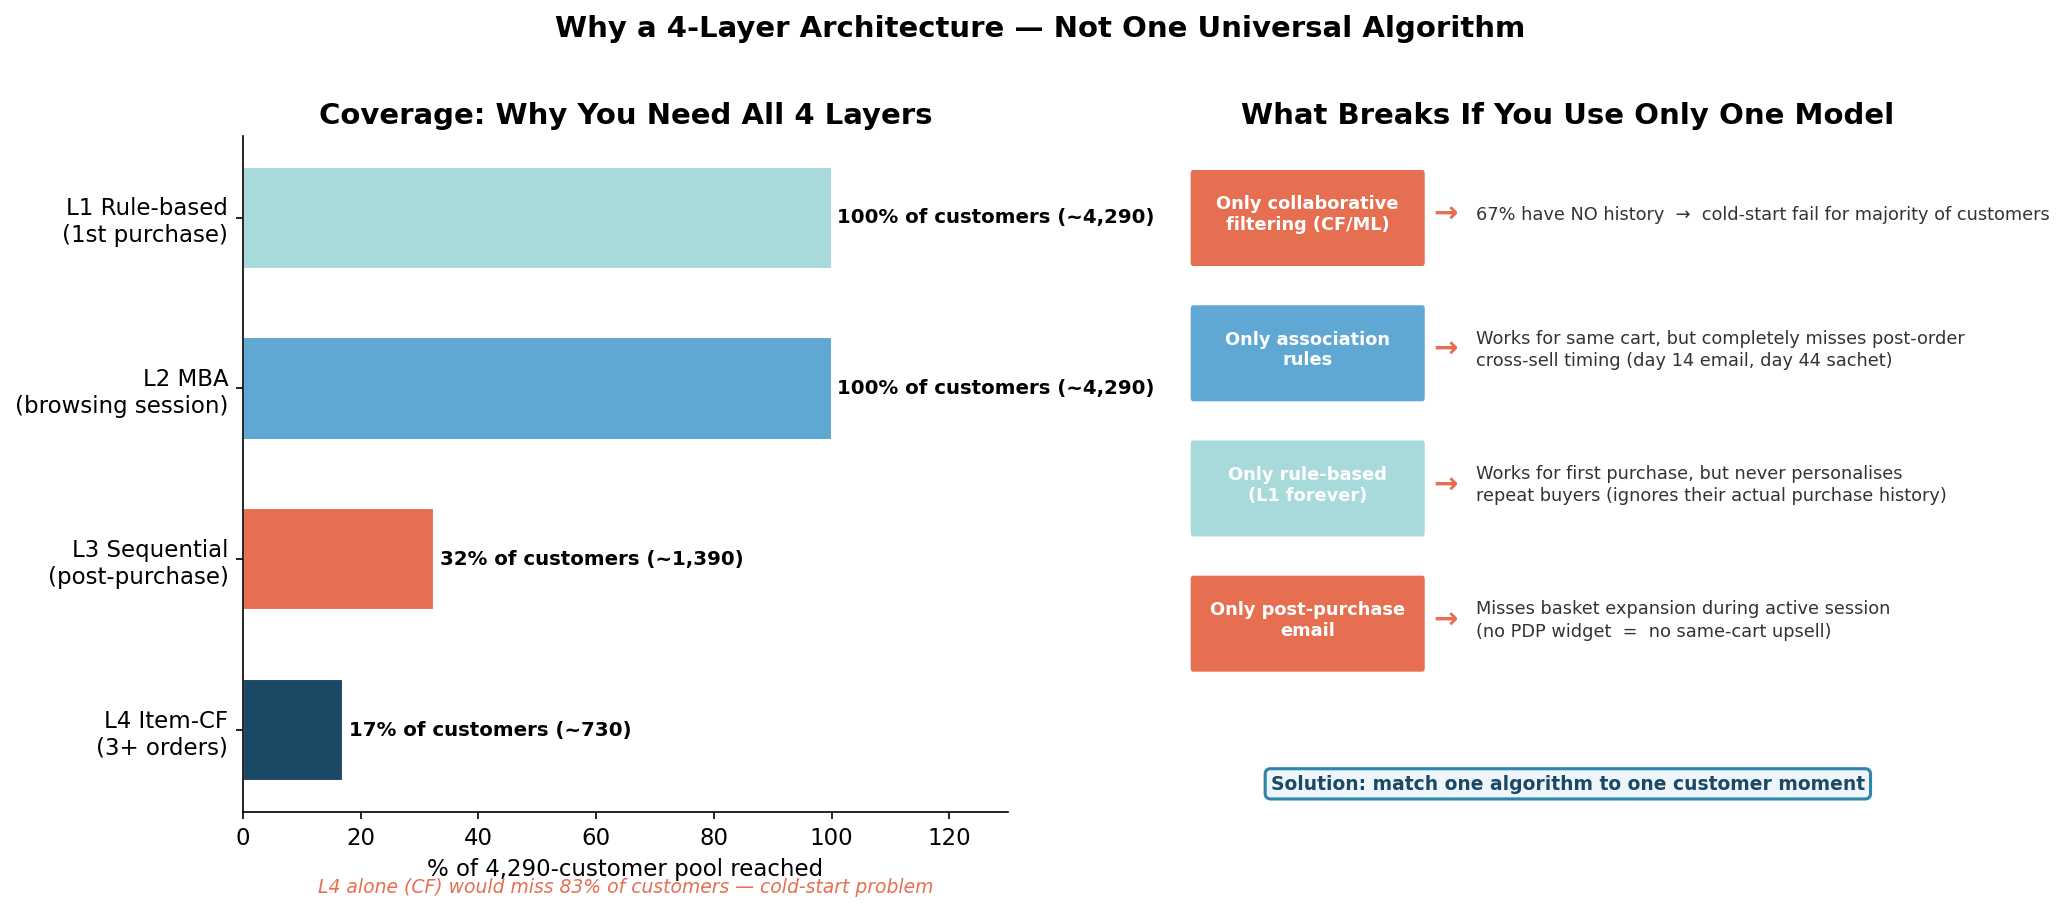
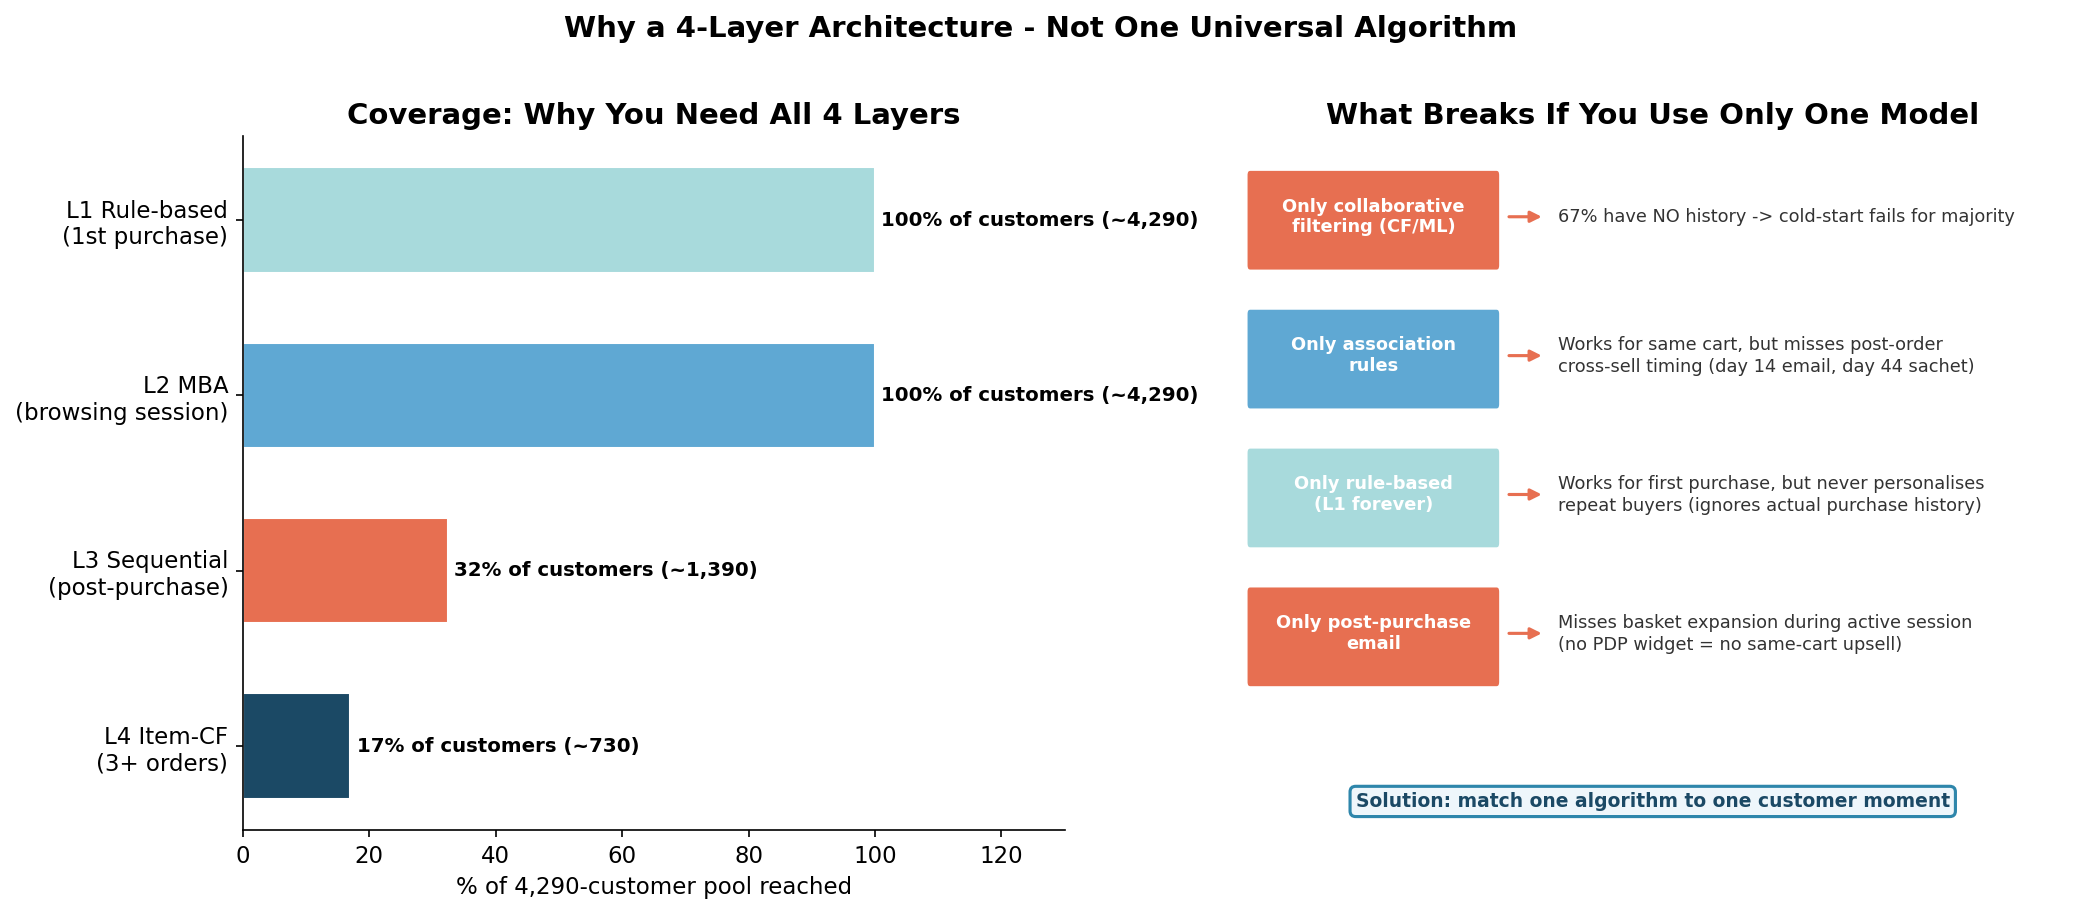
updates

diff --git a/EDA/aditya_findings/build_rec_sys_charts.py b/EDA/aditya_findings/build_rec_sys_charts.py
@@ -170,10 +170,6 @@ def chart_rec_sys_why_4_layers():
     ax.set_xlim(0, 130)
     ax.set_xlabel("% of 4,290-customer pool reached")
     ax.set_title("Coverage: Why You Need All 4 Layers", fontweight="bold")
-    ax.text(0.5, -0.12,
-            "L4 alone (CF) would miss 83% of customers — cold-start problem",
-            transform=ax.transAxes, ha="center", fontsize=9,
-            style="italic", color=PALETTE["accent"])
     ax.spines[["top", "right"]].set_visible(False)
 
     # ── RIGHT: failure modes if you use only one model ──
@@ -185,13 +181,13 @@ def chart_rec_sys_why_4_layers():
 
     rows = [
         ("Only collaborative\nfiltering (CF/ML)", PALETTE["accent"],
-         "67% have NO history  →  cold-start fail for majority of customers"),
+         "67% have NO history -> cold-start fails for majority"),
         ("Only association\nrules", PALETTE["T3"],
-         "Works for same cart, but completely misses post-order\ncross-sell timing (day 14 email, day 44 sachet)"),
+         "Works for same cart, but misses post-order\ncross-sell timing (day 14 email, day 44 sachet)"),
         ("Only rule-based\n(L1 forever)", PALETTE["T4"],
-         "Works for first purchase, but never personalises\nrepeat buyers (ignores their actual purchase history)"),
+         "Works for first purchase, but never personalises\nrepeat buyers (ignores actual purchase history)"),
         ("Only post-purchase\nemail", PALETTE["L3"],
-         "Misses basket expansion during active session\n(no PDP widget  =  no same-cart upsell)"),
+         "Misses basket expansion during active session\n(no PDP widget = no same-cart upsell)"),
     ]
     y = 4.8
     for label, col, desc in rows:
@@ -201,9 +197,9 @@ def chart_rec_sys_why_4_layers():
         ax.add_patch(rect)
         ax.text(1.6, y, label, ha="center", va="center",
                 fontsize=8.5, fontweight="bold", color="white")
-        ax.text(3.4, y, "→", ha="center", va="center",
-                fontsize=14, color=PALETTE["accent"], fontweight="bold")
-        ax.text(3.8, y, desc, ha="left", va="center",
+        ax.annotate("", xy=(3.7, y), xytext=(3.2, y),
+                    arrowprops=dict(arrowstyle="-|>", color=PALETTE["accent"], lw=1.5))
+        ax.text(3.85, y, desc, ha="left", va="center",
                 fontsize=8.5, color="#333", linespacing=1.3)
         y -= 1.2
 
@@ -213,7 +209,7 @@ def chart_rec_sys_why_4_layers():
             bbox=dict(boxstyle="round,pad=0.3", facecolor="#eef6fb",
                       edgecolor=PALETTE["T2"], lw=1.5))
 
-    fig.suptitle("Why a 4-Layer Architecture — Not One Universal Algorithm",
+    fig.suptitle("Why a 4-Layer Architecture - Not One Universal Algorithm",
                  fontsize=14, fontweight="bold", y=1.01)
     fig.tight_layout()
     _save(fig, "rec_sys_why_4_layers.png")

diff --git a/EDA/aditya_findings/build_slide_charts.py b/EDA/aditya_findings/build_slide_charts.py
@@ -55,10 +55,6 @@ def chart_slide1_problem():
             fontsize=10, color="white", fontweight="bold")
     ax.set_title("Gap 1 - Retention\n5,694 total customers", fontsize=12,
                  fontweight="bold", color=DARK, pad=12)
-    ax.text(0.5, -0.18,
-            "Most customers never come back.\n"
-            "Shopify's default recs show them the same\nproducts - no nudge, no timing.",
-            ha="center", transform=ax.transAxes, fontsize=9, color=MID, style="italic")
 
     # Panel 2: Category ladder
     ax = axes[1]
@@ -90,10 +86,6 @@ def chart_slide1_problem():
                   f"S${val}", ha="center", fontsize=10, color=DARK)
     ax.set_title("Gap 2 - Category Depth\n65% stuck at one product type", fontsize=12,
                  fontweight="bold", color=DARK, pad=12)
-    ax.text(0.5, -0.26,
-            "More categories = higher GP & stronger repeat.\n"
-            "The cross-sell opportunity is right here in the data.",
-            ha="center", transform=ax.transAxes, fontsize=9, color=MID, style="italic")
 
     # Panel 3: Subscriber gap
     ax = axes[2]
@@ -119,17 +111,8 @@ def chart_slide1_problem():
             bbox=dict(boxstyle="round,pad=0.3", facecolor=LGREY, edgecolor=DARK, lw=1))
     ax.set_title("Gap 3 - Subscription\nSubscribers 3.6x more likely to return", fontsize=12,
                  fontweight="bold", color=DARK, pad=12)
-    ax.text(0.5, -0.18,
-            "Subscribers behave completely differently.\n"
-            "Converting repeat buyers = highest ROI move.",
-            ha="center", transform=ax.transAxes, fontsize=9, color=MID, style="italic")
 
-    plt.tight_layout(rect=[0, 0.13, 1, 1])
-    fig.text(0.5, 0.01,
-             "WHAT'S WORKING:  D1 customers (top 10% by profit) = 57.7% of total GP  |  "
-             "VIP avg GP = S$476  |  Collagen-first buyers repeat at 30% vs 18% accessories-first",
-             ha="center", fontsize=9, color=GREEN, fontweight="bold",
-             bbox=dict(boxstyle="round,pad=0.4", facecolor="#E8F5EE", edgecolor=GREEN, lw=1))
+    plt.tight_layout(rect=[0, 0.02, 1, 1])
     plt.savefig(f"{OUT}/slide1_problem_statement.png", dpi=150, bbox_inches="tight")
     plt.close()
     print("Saved slide1_problem_statement.png")

diff --git a/EDA/aditya_findings/final_slides_rec.md b/EDA/aditya_findings/final_slides_rec.md
@@ -172,6 +172,26 @@ Use the chart: `outputs/charts/rec_sys_why_4_layers.png`
 
 ---
 
+### Slide 2 — Bullet Points to Display on Slide
+
+**Context bullets (set up the chart):**
+- Shopify's default algorithm treats every customer the same — it has no concept of customer stage
+- The right recommendation depends entirely on *where the customer is in their journey*, not just what they've bought
+- 67% of customers have only 1 order — any ML or personalisation system fails them entirely on first contact
+- The 4-layer system maps one algorithm to one customer moment: no single layer does everything, but together they cover 100% of the customer pool
+
+**What each layer solves (one line per layer — read alongside left panel of chart):**
+- **L1 Rule-Based:** Every new buyer gets a relevant cross-category suggestion from Day 1 — no history needed
+- **L2 Association Rules:** Customers browsing right now see "Frequently Bought Together" on the product page — captures basket expansion at the highest-intent moment
+- **L3 Sequential Timed:** Post-purchase email + physical sample fires at the exact day before the customer's reorder window — converts one-category buyers into two
+- **L4 Item-CF:** The 730 most loyal customers (3+ orders) get personalised recommendations based on their unique purchase fingerprint
+
+**Transition to Slide 3 (say before clicking next):**
+- L1, L2, and L4 are largely automated once the rules and matrix are built
+- L3 is the most operationally unique layer — it requires knowing *when* to fire, *what* sample to send, and *how* to route it through fulfilment
+- The timing is not arbitrary — it is calculated from real reorder data from repeat buyers
+- That precision is exactly why L3 is the highest-leverage layer in this system — and it is what the next slide is about
+
 ---
 
 ## SLIDE 3 — Layer 3 Deep Dive: The Timing Engine
